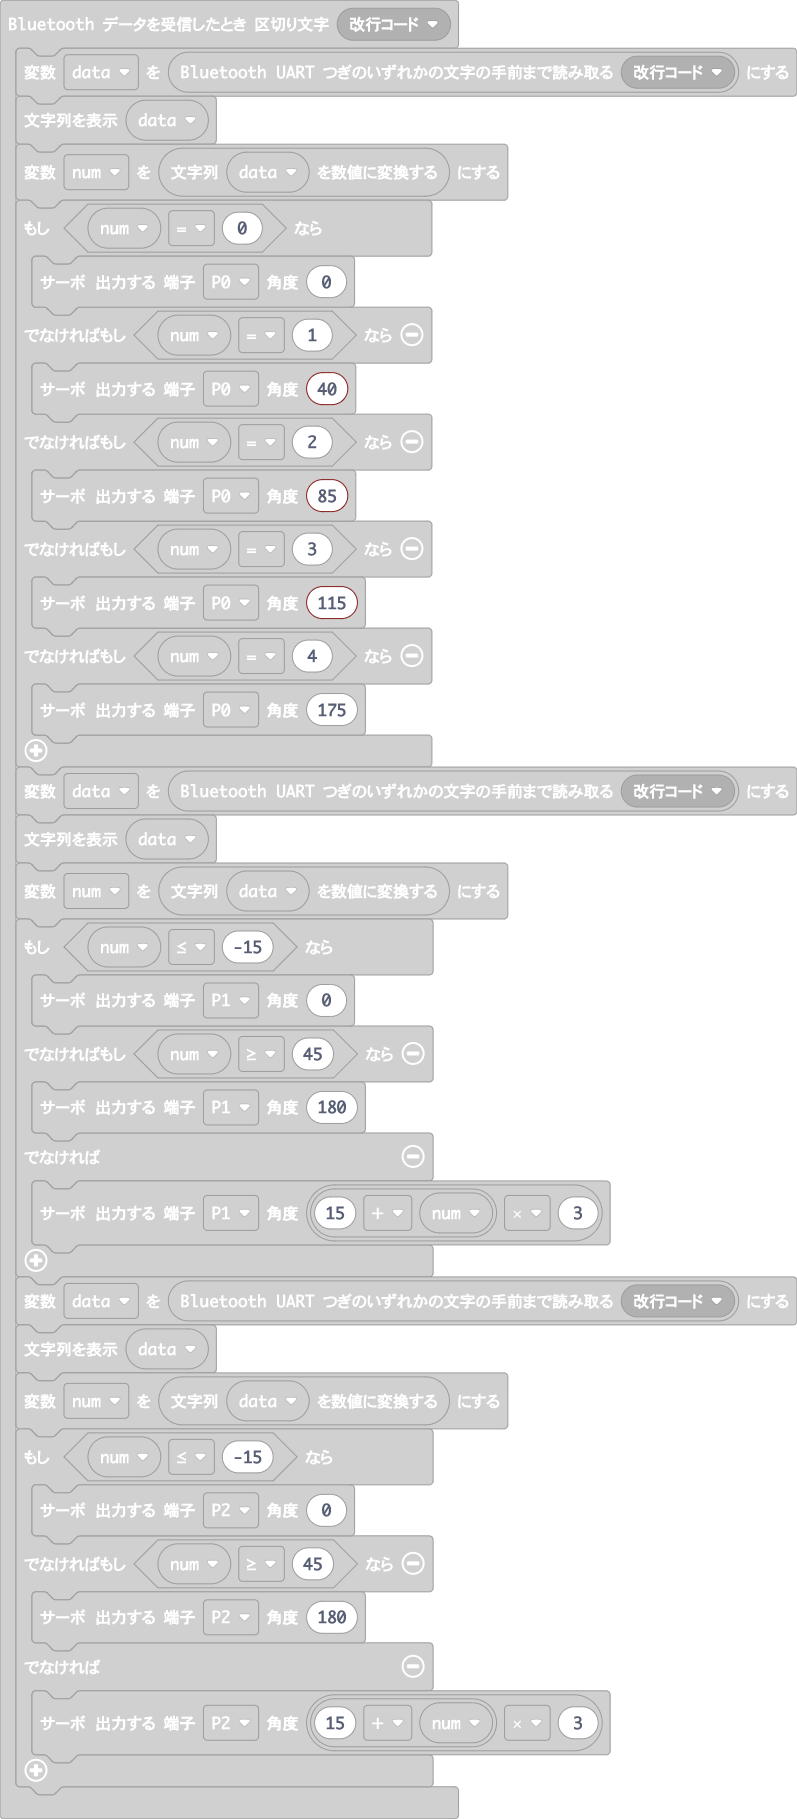
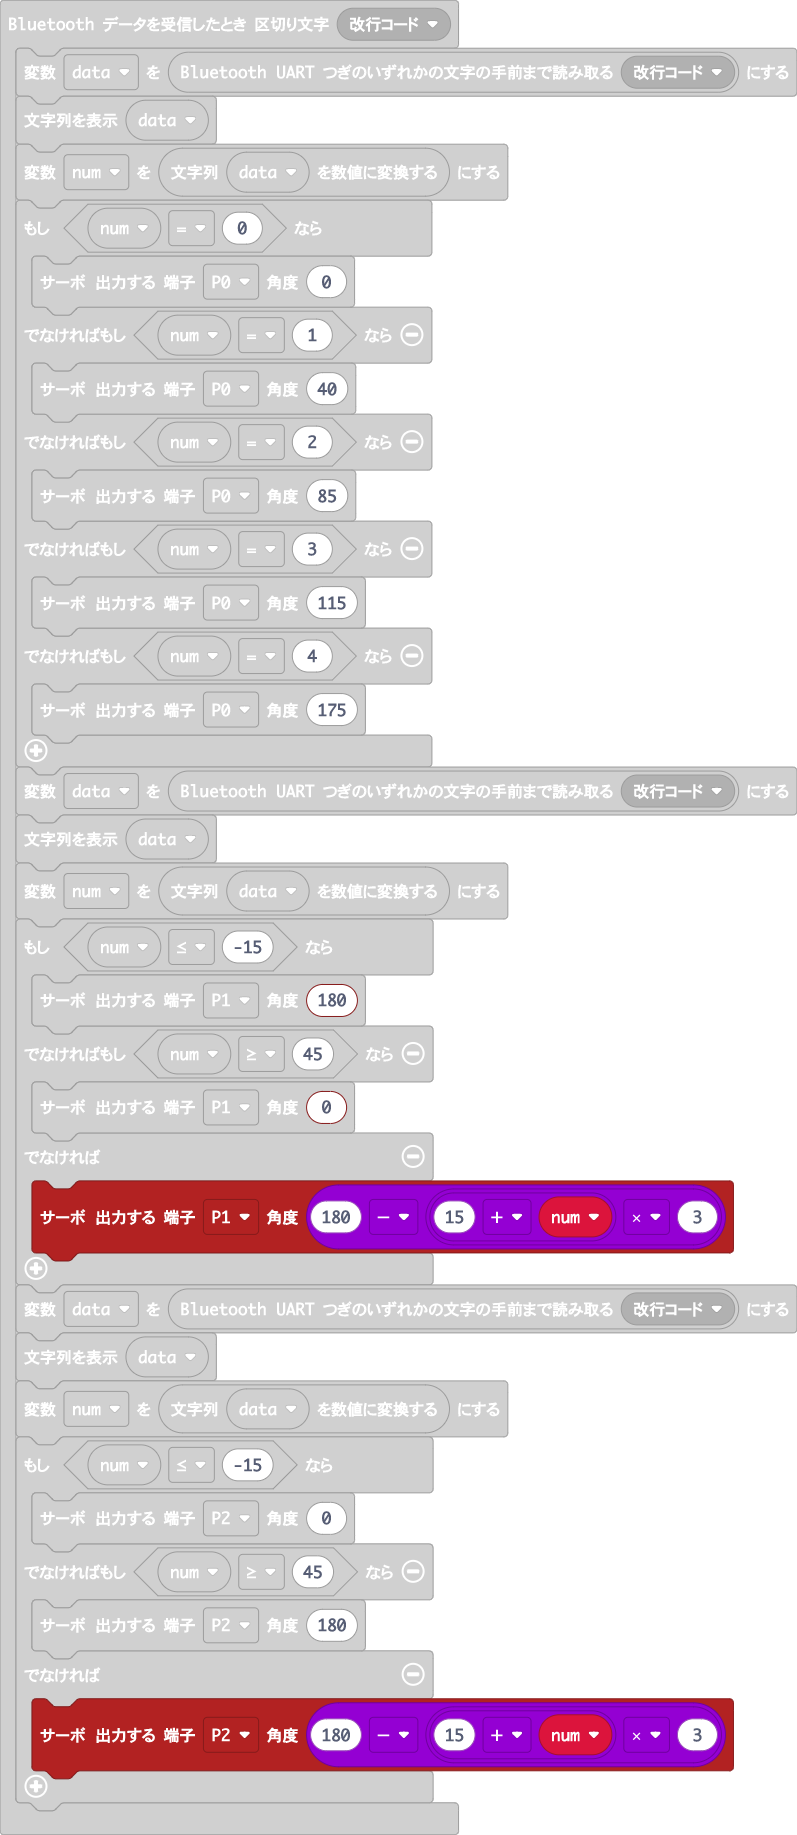
更新 main.blocks, main.ts

Changed region(s): [[0.0301, 0.0616, 1.0, 0.9852]]

diff --git a/main.ts b/main.ts
@@ -23,11 +23,11 @@ bluetooth.onUartDataReceived(serial.delimiters(Delimiters.NewLine), function () 
     basic.showString(data)
     num = parseFloat(data)
     if (num <= -15) {
-        pins.servoWritePin(AnalogPin.P1, 0)
-    } else if (num >= 45) {
         pins.servoWritePin(AnalogPin.P1, 180)
+    } else if (num >= 45) {
+        pins.servoWritePin(AnalogPin.P1, 0)
     } else {
-        pins.servoWritePin(AnalogPin.P1, (15 + num) * 3)
+        pins.servoWritePin(AnalogPin.P1, 180 - (15 + num) * 3)
     }
     data = bluetooth.uartReadUntil(serial.delimiters(Delimiters.NewLine))
     basic.showString(data)
@@ -37,7 +37,7 @@ bluetooth.onUartDataReceived(serial.delimiters(Delimiters.NewLine), function () 
     } else if (num >= 45) {
         pins.servoWritePin(AnalogPin.P2, 180)
     } else {
-        pins.servoWritePin(AnalogPin.P2, (15 + num) * 3)
+        pins.servoWritePin(AnalogPin.P2, 180 - (15 + num) * 3)
     }
 })
 let num = 0
